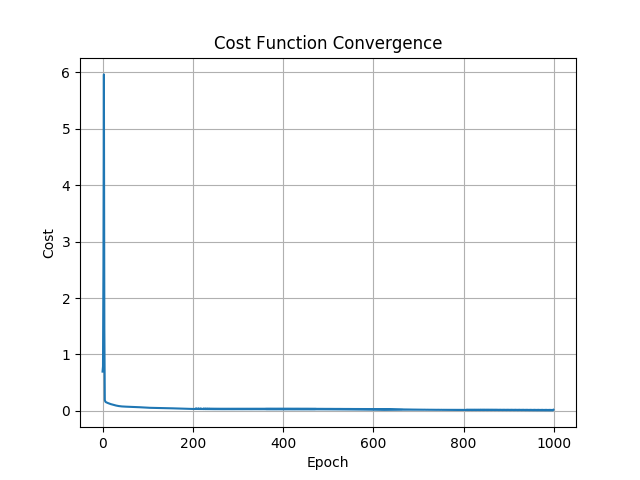
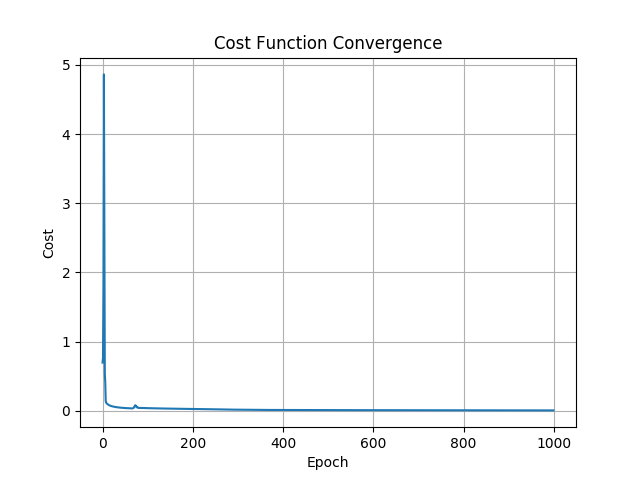
Make it work

diff --git a/neural_network/code/neural_network.py b/neural_network/code/neural_network.py
@@ -119,9 +119,25 @@ class NeuralNetwork:
             dw2 = np.dot(dz2, np.transpose(a[1]))
             db2 = np.sum(dz2, axis=1)
 
-            dz1 = np.multiply(np.dot(np.transpose(self.weights[2]), dz2), 1 - np.power(a[1], 2))
+            # dz1 = np.multiply(np.dot(np.transpose(self.weights[2]), dz2), 1 - np.power(a[1], 2))
+            dz1 = np.multiply(np.dot(np.transpose(self.weights[2]), dz2), sigmoid_derivative(z[1]))
             dw1 = np.dot(dz1, np.transpose(inp))
             db1 = np.sum(dz1, axis=1)
+
+            # delta_c2 = y_hat - y
+            # db2 = delta_c2
+            # dw2 = np.nditer(delta_c2)[0] * a[1]
+            #
+            # delta_k1 = 0
+            # d = sigmoid_derivative(z[1])
+            # for j in range(len(np.nditer(self.weights[2]))):
+            #     weight = self.weights[2]
+            #     sig_der = np.nditer(d)[j]
+            #     c = np.nditer(delta_c2)[0] * weight
+            #     delta_k1 += sig_der * c
+            #
+            # db1 = delta_k1
+            # dw1 = np.nditer(delta_k1)[0] * a[0]
 
             biases_gradient[1] += db1 / num_cases
             biases_gradient[2] += db2 / num_cases
